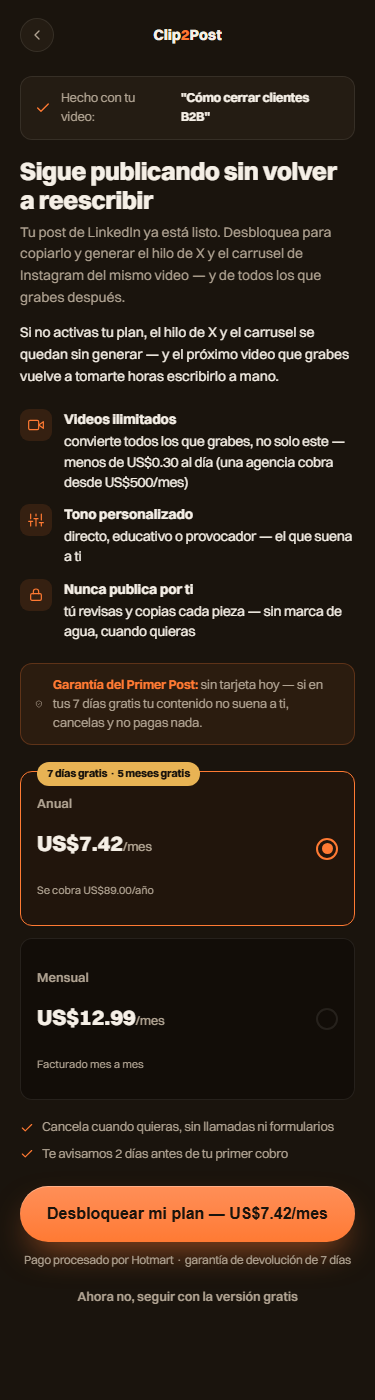
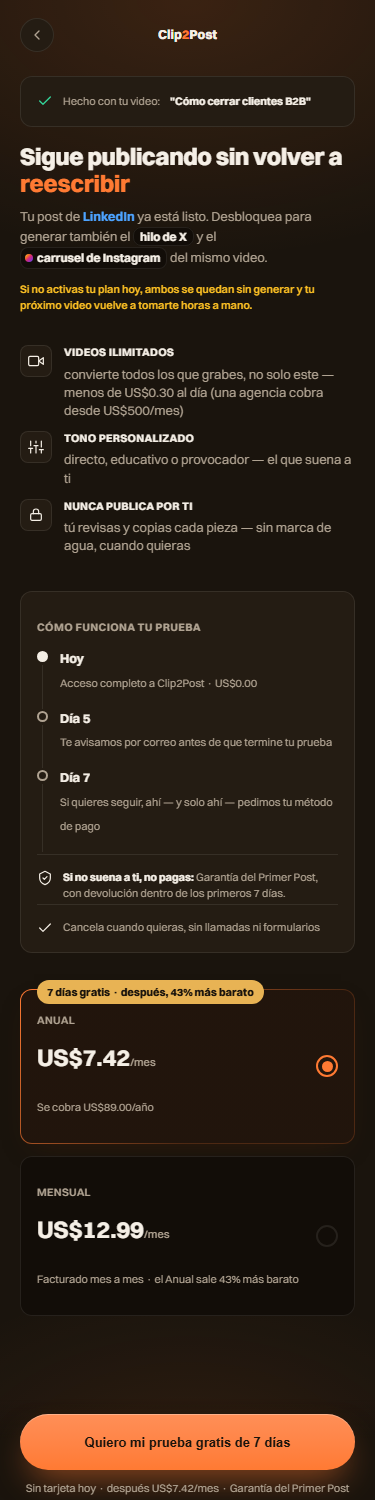
Sesión 5 (extensión): paywall mejorado — línea de tiempo del trial, CTA fijo, disciplina de color
Fusiona timeline Día 0/5/7 con garantía en una sola card, fija el CTA al
fondo del viewport (siempre accesible), corrige contradicción entre precio
mostrado y promesa de "sin tarjeta hoy", restringe el acento naranja a
CTA/selección/H1 según FICHA-ARTE, agrega estado de error de pago diseñado
y estados de carga/éxito en el botón. Adopta el patrón de timeline sugerido
por feedback externo, adaptado al modelo real de Clip2Post (sin tarjeta
hasta el día 7) y sin fabricar prueba social falsa.

Verificado por revisor-visual (8 rondas): LISTA — Usabilidad 37/40, Craft
18/20, Copy 19/20.

diff --git a/paywall.html b/paywall.html
@@ -12,13 +12,23 @@
     --bg:#1a140d; --surface:#241c13; --hundido:#120d08;
     --text-1:#f5efe6; --text-2:#b0a392; --line: rgba(245,239,230,.09);
     --accent:#ff7a33; --accent-2:#e8b354;
-    --radius-card:12px; --radius-btn:999px;
+    --radius-card:12px; --radius-btn:999px; --radius-chip:8px;
     --font-display:'Switzer',sans-serif; --font-body:'Switzer',sans-serif;
     --shadow-tinta: 74 34 8;
+    --fs-display:24px; --fs-body:13px; --fs-label:11px;
+    --pad-card:16px;
   }
   *{box-sizing:border-box;}
   html,body{overflow-x:hidden; max-width:100%;}
-  body{margin:0; background:var(--bg); color:var(--text-1); font-family:var(--font-body); -webkit-font-smoothing:antialiased; line-height:1.5;}
+  body{margin:0; background:
+      radial-gradient(600px 360px at 50% 0%, color-mix(in oklab, var(--accent) 14%, transparent), transparent 72%),
+      radial-gradient(420px 260px at 50% 100%, color-mix(in oklab, var(--accent) 9%, transparent), transparent 75%),
+      var(--bg);
+    color:var(--text-1); font-family:var(--font-body); -webkit-font-smoothing:antialiased; line-height:1.5;}
+  .hidden{display:none !important;}
+  .paystate{display:flex; gap:10px; align-items:flex-start; background:color-mix(in oklab, #F87171 10%, var(--surface)); border:1px solid color-mix(in oklab, #F87171 35%, var(--line)); border-radius:var(--radius-card); padding:var(--pad-card); margin-top:14px; font-size:var(--fs-label); color:var(--text-1); line-height:1.5;}
+  .paystate svg{flex:none; color:#F87171; margin-top:1px;}
+  .paystate b{display:block; font-size:var(--fs-body); margin-bottom:2px;}
   @media (prefers-reduced-motion: reduce){ *{animation-duration:.01ms !important; transition-duration:.01ms !important;} }
   a:focus-visible, button:focus-visible{outline:2px solid var(--accent); outline-offset:3px; border-radius:8px;}
   @keyframes rise{from{opacity:0; transform:translateY(10px);} to{opacity:1; transform:translateY(0);}}
@@ -26,61 +36,89 @@
   .reveal.d1{animation-delay:0s;} .reveal.d2{animation-delay:.05s;} .reveal.d3{animation-delay:.1s;}
   .reveal.d4{animation-delay:.15s;} .reveal.d5{animation-delay:.2s;} .reveal.d6{animation-delay:.25s;}
   .reveal.d7{animation-delay:.3s;} .reveal.d8{animation-delay:.35s;} .reveal.d9{animation-delay:.4s;}
-  .reveal.d10{animation-delay:.45s;} .reveal.d11{animation-delay:.5s;}
+  .reveal.d10{animation-delay:.45s;} .reveal.d11{animation-delay:.5s;} .reveal.d5b{animation-delay:.22s;}
+
+  /* línea de tiempo del trial (elimina la ansiedad de cobro sorpresa) */
+  .timeline{margin-top:36px; background:var(--surface); border:1px solid var(--line); border-radius:var(--radius-card); padding:var(--pad-card);}
+  .tl-title{font-size:var(--fs-label); font-weight:700; letter-spacing:.04em; text-transform:uppercase; color:var(--text-2); margin-bottom:14px;}
+  .tl-item{display:flex; gap:12px; padding-bottom:16px; position:relative;}
+  .tl-item:not(:last-child)::before{content:''; position:absolute; left:5px; top:16px; bottom:0; width:1px; background:var(--line);}
+  .tl-dot{width:11px; height:11px; border-radius:50%; border:2px solid var(--text-2); background:var(--surface); flex:none; margin-top:2px; z-index:1;}
+  .tl-dot.on{border-color:var(--text-1); background:var(--text-1);}
+  .tl-item b{display:block; font-size:var(--fs-body); font-weight:700; color:var(--text-1);}
+  .tl-item span{font-size:var(--fs-label); color:var(--text-2); line-height:1.4;}
+  .tl-guarantee{display:flex; gap:10px; align-items:flex-start; margin-top:2px; padding-top:14px; border-top:1px solid var(--line); color:var(--text-2); font-size:var(--fs-label);}
+  .tl-guarantee svg{flex:none; color:var(--text-1); margin-top:1px;}
+  .tl-guarantee b{color:var(--text-1);}
 
   .topbar{display:flex; align-items:center; justify-content:space-between; padding:18px 20px;}
   .back{width:34px; height:34px; border-radius:50%; background:var(--surface); border:1px solid var(--line); display:flex; align-items:center; justify-content:center; color:var(--text-2); text-decoration:none;}
-  .brand{font-weight:800; font-size:15px;}
+  .brand{font-weight:800; font-size:var(--fs-body);}
   .brand b{color:var(--accent);}
 
-  main{max-width:480px; margin:0 auto; padding:6px 20px 36px;}
+  main{max-width:480px; margin:0 auto; padding:6px 20px 152px;}
+
+  .stickybar{
+    position:fixed; bottom:0; left:0; right:0; z-index:5;
+    max-width:480px; margin:0 auto;
+    padding:14px 20px calc(16px + env(safe-area-inset-bottom, 0px));
+    background:linear-gradient(180deg, transparent, var(--bg) 26%, var(--bg));
+  }
 
   /* 1. Qué desbloqueo + inversión visible */
-  .recap{display:flex; align-items:center; gap:10px; background:var(--surface); border:1px solid var(--line); border-radius:var(--radius-card); padding:12px 14px; font-size:12.5px; color:var(--text-2);}
+  .recap{display:flex; align-items:center; gap:10px; background:var(--surface); border:1px solid var(--line); border-radius:var(--radius-card); padding:var(--pad-card); font-size:var(--fs-label); color:var(--text-2);}
   .recap b{color:var(--text-1);}
-  h1{font-family:var(--font-display); font-size:25px; font-weight:800; line-height:1.16; margin:16px 0 0; letter-spacing:-0.01em;}
-  .sub{margin-top:8px; font-size:14px; color:var(--text-2); line-height:1.55;}
+  h1{font-family:var(--font-display); font-size:var(--fs-display); font-weight:800; line-height:1.16; margin:16px 0 0; letter-spacing:-0.01em;}
+  h1 em{font-style:normal; color:var(--accent);}
+  .sub{margin-top:8px; font-size:var(--fs-body); color:var(--text-2); line-height:1.55;}
+  .urgencia{margin:8px 0 0; font-size:var(--fs-label); color:#FBBF24; font-weight:600; line-height:1.4;}
+  .net-tag{font-weight:700;}
+  .net-li{color:#4DA3FF;}
+  .net-x{color:var(--text-1); background:var(--hundido); border:1px solid var(--line); padding:1px 6px; border-radius:var(--radius-chip); font-size:0.92em;}
+  .net-ig{color:var(--text-1); background:var(--hundido); border:1px solid var(--line); padding:1px 6px 1px 4px; border-radius:var(--radius-chip); font-size:0.92em; display:inline-flex; align-items:center; gap:4px;}
+  .net-ig::before{content:''; width:8px; height:8px; border-radius:50%; background:linear-gradient(135deg,#feda75,#fa7e1e,#d62976,#962fbf,#4f5bd5); flex:none;}
 
   /* beneficios */
-  .beneficios{margin-top:22px; display:flex; flex-direction:column; gap:12px;}
+  .beneficios{margin-top:32px; display:flex; flex-direction:column; gap:12px;}
   .beneficio{display:flex; gap:12px; align-items:flex-start;}
-  .beneficio .bic{width:32px; height:32px; border-radius:9px; background:color-mix(in oklab, var(--accent) 12%, transparent); display:flex; align-items:center; justify-content:center; flex:none;}
-  .beneficio p{margin:0; font-size:13.5px; color:var(--text-1); line-height:1.5;}
-  .beneficio p b{display:block; font-size:14px; margin-bottom:1px;}
-
-  /* prueba social día-1: garantía destacada */
-  .trust{margin-top:22px; display:flex; align-items:center; gap:10px; background:color-mix(in oklab, var(--accent) 8%, transparent); border:1px solid color-mix(in oklab, var(--accent) 24%, transparent); border-radius:var(--radius-card); padding:12px 14px; font-size:12.5px; color:var(--text-2);}
-  .trust b{color:var(--accent);}
+  .beneficio .bic{width:32px; height:32px; border-radius:var(--radius-chip); background:var(--surface); border:1px solid var(--line); display:flex; align-items:center; justify-content:center; flex:none;}
+  .beneficio p{margin:0; font-size:var(--fs-body); color:var(--text-2); line-height:1.4;}
+  .beneficio p b{display:block; font-size:var(--fs-label); font-weight:700; text-transform:uppercase; letter-spacing:.03em; color:var(--text-1); margin-bottom:4px;}
 
   /* planes */
-  .planes{margin-top:26px; display:flex; flex-direction:column; gap:12px;}
-  .plan{background:var(--hundido); border:1.5px solid var(--line); border-radius:var(--radius-card); padding:16px; position:relative; display:flex; align-items:center; justify-content:space-between; gap:12px; cursor:pointer;}
-  .plan.sel{border-color:var(--accent); background:color-mix(in oklab, var(--accent) 8%, var(--hundido));}
-  .plan .badge{position:absolute; top:-10px; left:16px; background:var(--accent-2); color:#1a140d; font-size:10.5px; font-weight:800; padding:4px 10px; border-radius:999px;}
-  .plan .l{font-size:13px; color:var(--text-2); font-weight:600;}
-  .plan .price{font-family:var(--font-display); font-size:22px; font-weight:800; margin-top:2px;}
-  .plan .price span{font-size:12.5px; font-weight:500; color:var(--text-2);}
-  .plan .note{font-size:11px; color:var(--text-2); margin-top:2px;}
-  .radio{width:22px; height:22px; border-radius:50%; border:2px solid var(--line); flex:none; display:flex; align-items:center; justify-content:center;}
+  .planes{margin-top:36px; display:flex; flex-direction:column; gap:12px;}
+  .plan{background:var(--hundido); border:1.5px solid var(--line); border-radius:var(--radius-card); padding:var(--pad-card); position:relative; display:flex; align-items:center; justify-content:space-between; gap:12px; cursor:pointer; transition:border-color .2s ease, background .2s ease, transform .15s ease;}
+  .plan:active{transform:scale(.98);}
+  .plan.sel{
+    border-color:transparent;
+    background-image:linear-gradient(color-mix(in oklab, var(--accent) 8%, var(--hundido)), color-mix(in oklab, var(--accent) 8%, var(--hundido))), linear-gradient(135deg, var(--accent), color-mix(in oklab, var(--accent) 25%, transparent) 65%);
+    background-origin:border-box; background-clip:padding-box, border-box;
+    box-shadow:0 10px 26px -14px rgb(var(--shadow-tinta) / .55);
+  }
+  .plan:focus-visible{outline:2px solid var(--accent); outline-offset:2px;}
+  .plan .badge{position:absolute; top:-10px; left:16px; background:var(--accent-2); color:#1a140d; font-size:var(--fs-label); font-weight:800; padding:4px 10px; border-radius:999px;}
+  .plan .l{font-size:var(--fs-label); color:var(--text-2); font-weight:600; text-transform:uppercase; letter-spacing:.03em;}
+  .plan .price{font-family:var(--font-display); font-size:var(--fs-display); font-weight:700; margin-top:2px;}
+  .plan .price .unit{font-size:var(--fs-label); font-weight:500; color:var(--text-2);}
+  .plan .note{font-size:var(--fs-label); color:var(--text-2); margin-top:2px;}
+  .radio{width:22px; height:22px; border-radius:50%; border:2px solid var(--line); flex:none; display:flex; align-items:center; justify-content:center; transition:border-color .2s ease;}
   .plan.sel .radio{border-color:var(--accent);}
   .plan.sel .radio::after{content:''; width:11px; height:11px; border-radius:50%; background:var(--accent);}
 
-  /* confianza/reversion */
-  .confianza{margin-top:18px; display:flex; flex-direction:column; gap:8px; font-size:12.5px; color:var(--text-2);}
-  .confianza .row{display:flex; align-items:center; gap:8px;}
-  .confianza svg{flex:none; color:var(--accent);}
-
   .cta{
-    margin-top:22px; display:flex; align-items:center; justify-content:center; gap:8px;
-    height:56px; border-radius:var(--radius-btn); font-weight:700; font-size:16px; color:var(--bg);
+    margin-top:0; display:flex; align-items:center; justify-content:center; gap:8px;
+    height:56px; border-radius:var(--radius-btn); font-weight:700; font-size:var(--fs-body); color:var(--bg);
     text-decoration:none; border:none; cursor:pointer; width:100%;
     background:linear-gradient(180deg, color-mix(in oklab, var(--accent) 86%, white), var(--accent));
     box-shadow:inset 0 1px 0 rgb(255 255 255/.3), 0 16px 34px -10px color-mix(in oklab, var(--accent) 55%, transparent);
     transition:filter .15s ease, transform .15s ease;
   }
   .cta:hover{filter:brightness(1.06);} .cta:active{transform:scale(.98);}
-  .fine{text-align:center; font-size:11.5px; color:var(--text-2); margin-top:10px; line-height:1.5;}
-  .skip{display:block; text-align:center; margin-top:18px; font-size:13px; color:var(--text-2); text-decoration:none; font-weight:600;}
+  .cta:disabled{opacity:.85; cursor:default;}
+  .spinner{width:15px; height:15px; border-radius:50%; border:2px solid color-mix(in oklab, var(--bg) 30%, transparent); border-top-color:var(--bg); animation:spin .6s linear infinite; flex:none;}
+  @keyframes spin{to{transform:rotate(360deg);}}
+  .fine{text-align:center; font-size:var(--fs-label); color:var(--text-2); margin-top:10px; line-height:1.5;}
+  .skip{display:block; text-align:center; margin-top:18px; font-size:var(--fs-body); color:var(--text-2); text-decoration:none; font-weight:600;}
 </style>
 </head>
 <body>
@@ -93,86 +131,140 @@
 
 <main>
   <div class="recap reveal d1">
-    <svg width="16" height="16" viewBox="0 0 24 24" fill="none" stroke="#ff7a33" stroke-width="2" stroke-linecap="round" stroke-linejoin="round"><path d="M20 6 9 17l-5-5"/></svg>
+    <svg width="16" height="16" viewBox="0 0 24 24" fill="none" stroke="#34D399" stroke-width="2" stroke-linecap="round" stroke-linejoin="round"><path d="M20 6 9 17l-5-5"/></svg>
     Hecho con tu video: <b>"Cómo cerrar clientes B2B"</b>
   </div>
 
   <!-- 1-2: qué desbloqueo + por qué ahora -->
-  <h1 class="reveal d2">Sigue publicando sin volver a reescribir</h1>
-  <p class="sub reveal d3">Tu post de LinkedIn ya está listo. Desbloquea para copiarlo y generar el hilo de X y el carrusel de Instagram del mismo video — y de todos los que grabes después.</p>
+  <h1 class="reveal d2">Sigue publicando sin volver a <em>reescribir</em></h1>
+  <p class="sub reveal d3">Tu post de <span class="net-tag net-li">LinkedIn</span> ya está listo. Desbloquea para generar también el <span class="net-tag net-x">hilo de X</span> y el <span class="net-tag net-ig">carrusel de Instagram</span> del mismo video.</p>
 
-  <!-- 3: qué pierdo si no sigo (costo de inacción honesto) -->
-  <p class="sub reveal d4" style="margin-top:10px; color:var(--text-1);">Si no activas tu plan, el hilo de X y el carrusel se quedan sin generar — y el próximo video que grabes vuelve a tomarte horas escribirlo a mano.</p>
+  <!-- 3: qué pierdo si no sigo, como nota corta separada -->
+  <p class="urgencia reveal d4">Si no activas tu plan hoy, ambos se quedan sin generar y tu próximo video vuelve a tomarte horas a mano.</p>
 
   <!-- 4: qué gano hoy (beneficios concretos, máx 3 — incluye precio vs. agencia y "nunca publica por ti" de FICHA-AVATAR) -->
   <div class="beneficios reveal d5">
     <div class="beneficio">
-      <span class="bic"><svg width="16" height="16" viewBox="0 0 24 24" fill="none" stroke="#ff7a33" stroke-width="1.8" stroke-linecap="round" stroke-linejoin="round"><path d="M23 7l-7 5 7 5V7z"/><rect x="1" y="5" width="15" height="14" rx="2"/></svg></span>
+      <span class="bic"><svg width="16" height="16" viewBox="0 0 24 24" fill="none" stroke="#f5efe6" stroke-width="1.8" stroke-linecap="round" stroke-linejoin="round"><path d="M23 7l-7 5 7 5V7z"/><rect x="1" y="5" width="15" height="14" rx="2"/></svg></span>
       <p><b>Videos ilimitados</b>convierte todos los que grabes, no solo este — menos de US$0.30 al día (una agencia cobra desde US$500/mes)</p>
     </div>
     <div class="beneficio">
-      <span class="bic"><svg width="16" height="16" viewBox="0 0 24 24" fill="none" stroke="#ff7a33" stroke-width="1.8" stroke-linecap="round" stroke-linejoin="round"><path d="M4 21v-7M4 10V3M12 21v-11M12 6V3M20 21v-5M20 12V3"/><path d="M1 14h6M9 10h6M17 16h6"/></svg></span>
+      <span class="bic"><svg width="16" height="16" viewBox="0 0 24 24" fill="none" stroke="#f5efe6" stroke-width="1.8" stroke-linecap="round" stroke-linejoin="round"><path d="M4 21v-7M4 10V3M12 21v-11M12 6V3M20 21v-5M20 12V3"/><path d="M1 14h6M9 10h6M17 16h6"/></svg></span>
       <p><b>Tono personalizado</b>directo, educativo o provocador — el que suena a ti</p>
     </div>
     <div class="beneficio">
-      <span class="bic"><svg width="16" height="16" viewBox="0 0 24 24" fill="none" stroke="#ff7a33" stroke-width="1.8" stroke-linecap="round" stroke-linejoin="round"><rect x="4" y="10" width="16" height="10" rx="2"/><path d="M8 10V7a4 4 0 0 1 8 0v3"/></svg></span>
+      <span class="bic"><svg width="16" height="16" viewBox="0 0 24 24" fill="none" stroke="#f5efe6" stroke-width="1.8" stroke-linecap="round" stroke-linejoin="round"><rect x="4" y="10" width="16" height="10" rx="2"/><path d="M8 10V7a4 4 0 0 1 8 0v3"/></svg></span>
       <p><b>Nunca publica por ti</b>tú revisas y copias cada pieza — sin marca de agua, cuando quieras</p>
     </div>
   </div>
 
-  <!-- prueba social día 1: garantía (fusiona reversión de riesgo + no-tarjeta, sin repetir la misma idea dos veces) -->
-  <div class="trust reveal d6">
-    <svg width="18" height="18" viewBox="0 0 24 24" fill="none" stroke="currentColor" stroke-width="1.8" stroke-linecap="round" stroke-linejoin="round"><path d="M12 2 4 6v6c0 5 3.5 8.5 8 10 4.5-1.5 8-5 8-10V6l-8-4Z"/><path d="m9 12 2 2 4-4"/></svg>
-    <span><b>Garantía del Primer Post:</b> sin tarjeta hoy — si en tus 7 días gratis tu contenido no suena a ti, cancelas y no pagas nada.</span>
+  <!-- línea de tiempo + garantía fusionadas en 1 sola card (elimina la ansiedad de "me van a cobrar sin avisar") -->
+  <div class="timeline reveal d5b">
+    <p class="tl-title">Cómo funciona tu prueba</p>
+    <div class="tl-item">
+      <div class="tl-dot on"></div>
+      <div><b>Hoy</b><span>Acceso completo a Clip2Post · US$0.00</span></div>
+    </div>
+    <div class="tl-item">
+      <div class="tl-dot"></div>
+      <div><b>Día 5</b><span>Te avisamos por correo antes de que termine tu prueba</span></div>
+    </div>
+    <div class="tl-item">
+      <div class="tl-dot"></div>
+      <div><b>Día 7</b><span>Si quieres seguir, ahí — y solo ahí — pedimos tu método de pago</span></div>
+    </div>
+    <div class="tl-guarantee">
+      <svg width="16" height="16" viewBox="0 0 24 24" fill="none" stroke="currentColor" stroke-width="1.8" stroke-linecap="round" stroke-linejoin="round"><path d="M12 2 4 6v6c0 5 3.5 8.5 8 10 4.5-1.5 8-5 8-10V6l-8-4Z"/><path d="m9 12 2 2 4-4"/></svg>
+      <span><b>Si no suena a ti, no pagas:</b> Garantía del Primer Post, con devolución dentro de los primeros 7 días.</span>
+    </div>
+    <div class="tl-guarantee">
+      <svg width="16" height="16" viewBox="0 0 24 24" fill="none" stroke="currentColor" stroke-width="1.8" stroke-linecap="round" stroke-linejoin="round"><path d="M20 6 9 17l-5-5"/></svg>
+      <span>Cancela cuando quieras, sin llamadas ni formularios</span>
+    </div>
   </div>
 
   <!-- 6: cuál plan me conviene -->
-  <div class="planes reveal d7">
-    <div class="plan sel" id="planAnual">
+  <div class="planes reveal d7" role="radiogroup" aria-label="Elige tu plan">
+    <div class="plan sel" id="planAnual" role="radio" aria-checked="true" tabindex="0">
       <div>
-        <span class="badge">7 días gratis · 5 meses gratis</span>
+        <span class="badge">7 días gratis · después, 43% más barato</span>
         <p class="l" style="margin-top:6px;">Anual</p>
-        <p class="price">US$7.42<span>/mes</span></p>
+        <p class="price">US$<span id="heroPrice">7.42</span><span class="unit">/mes</span></p>
         <p class="note">Se cobra US$89.00/año</p>
       </div>
       <span class="radio"></span>
     </div>
-    <div class="plan" id="planMensual">
+    <div class="plan" id="planMensual" role="radio" aria-checked="false" tabindex="0">
       <div>
         <p class="l">Mensual</p>
-        <p class="price">US$12.99<span>/mes</span></p>
-        <p class="note">Facturado mes a mes</p>
+        <p class="price">US$12.99<span class="unit">/mes</span></p>
+        <p class="note">Facturado mes a mes · el Anual sale 43% más barato</p>
       </div>
       <span class="radio"></span>
     </div>
   </div>
 
-  <!-- 5+2: cancelación, fecha de cobro -->
-  <div class="confianza reveal d8">
-    <div class="row"><svg width="14" height="14" viewBox="0 0 24 24" fill="none" stroke="currentColor" stroke-width="2" stroke-linecap="round" stroke-linejoin="round"><path d="M20 6 9 17l-5-5"/></svg>Cancela cuando quieras, sin llamadas ni formularios</div>
-    <div class="row"><svg width="14" height="14" viewBox="0 0 24 24" fill="none" stroke="currentColor" stroke-width="2" stroke-linecap="round" stroke-linejoin="round"><path d="M20 6 9 17l-5-5"/></svg>Te avisamos 2 días antes de tu primer cobro</div>
-  </div>
-
-  <button class="cta reveal d9" id="ctaBtn">Desbloquear mi plan</button>
-  <p class="fine reveal d10">Pago procesado por Hotmart · garantía de devolución de 7 días</p>
-
-  <!-- 7: salida limpia, sin confirmshaming -->
-  <a class="skip reveal d11" href="login.html">Ahora no, seguir con la versión gratis</a>
+  <div style="height:8px;"></div>
 </main>
+
+<!-- CTA fijo al fondo: siempre accesible sin importar cuánto haya scrolleado -->
+<div class="stickybar">
+  <!-- estado de error de pago: oculto por defecto, se activa si Hotmart devuelve un fallo (se conecta en Sesión 6) -->
+  <div class="paystate hidden" id="payError" role="alert">
+    <svg width="16" height="16" viewBox="0 0 24 24" fill="none" stroke="currentColor" stroke-width="2" stroke-linecap="round" stroke-linejoin="round"><circle cx="12" cy="12" r="10"/><line x1="12" y1="8" x2="12" y2="12"/><line x1="12" y1="16" x2="12.01" y2="16"/></svg>
+    <span><b>No pudimos confirmar tu pago</b>Revisa los datos con Hotmart e inténtalo de nuevo — no se te cobró nada.</span>
+  </div>
+  <button class="cta" id="ctaBtn">Quiero mi prueba gratis de 7 días</button>
+  <p class="fine" id="ctaFine">Sin tarjeta hoy · después US$7.42/mes · Garantía del Primer Post</p>
+  <!-- 7: salida limpia, sin confirmshaming -->
+  <a class="skip" href="login.html">Ahora no, seguir explorando</a>
+</div>
 
 <script>
   var planAnual = document.getElementById('planAnual');
   var planMensual = document.getElementById('planMensual');
   var cta = document.getElementById('ctaBtn');
+  var ctaFine = document.getElementById('ctaFine');
   function selectPlan(el, price){
-    planAnual.classList.remove('sel'); planMensual.classList.remove('sel');
+    [planAnual, planMensual].forEach(function(p){ p.classList.remove('sel'); p.setAttribute('aria-checked', 'false'); });
     el.classList.add('sel');
-    cta.textContent = 'Desbloquear mi plan — ' + price;
+    el.setAttribute('aria-checked', 'true');
+    ctaFine.textContent = 'Sin tarjeta hoy · después ' + price + ' · Garantía del Primer Post';
   }
   planAnual.addEventListener('click', function(){ selectPlan(planAnual, 'US$7.42/mes'); });
   planMensual.addEventListener('click', function(){ selectPlan(planMensual, 'US$12.99/mes'); });
-  cta.textContent = 'Desbloquear mi plan — US$7.42/mes';
-  cta.addEventListener('click', function(){ window.location.href = 'login.html'; });
+  [planAnual, planMensual].forEach(function(p){
+    p.addEventListener('keydown', function(e){
+      if (e.key === 'Enter' || e.key === ' ') { e.preventDefault(); p.click(); }
+      if (e.key === 'ArrowDown' || e.key === 'ArrowUp') { e.preventDefault(); (p === planAnual ? planMensual : planAnual).focus(); }
+    });
+  });
+  cta.addEventListener('click', function(){
+    if (cta.disabled) return;
+    document.getElementById('payError').classList.add('hidden');
+    cta.disabled = true;
+    cta.innerHTML = '<span class="spinner" aria-hidden="true"></span> Confirmando...';
+    setTimeout(function(){
+      cta.innerHTML = '<svg width="18" height="18" viewBox="0 0 24 24" fill="none" stroke="currentColor" stroke-width="2.5" stroke-linecap="round" stroke-linejoin="round"><path d="M20 6 9 17l-5-5"/></svg> Listo';
+      setTimeout(function(){ window.location.href = 'login.html'; }, 280);
+    }, 650);
+  });
+
+  // ── Conteo animado del precio héroe (movimiento baseline #2, respeta reduced-motion) ──
+  var prefersReduced = window.matchMedia && window.matchMedia('(prefers-reduced-motion: reduce)').matches;
+  if (!prefersReduced) {
+    var priceEl = document.getElementById('heroPrice');
+    var target = parseFloat(priceEl.textContent);
+    var t0 = null, dur = 700;
+    function stepPrice(ts){
+      if (!t0) t0 = ts;
+      var p = Math.min(1, (ts - t0) / dur);
+      var val = target * (1 - Math.pow(1 - p, 3));
+      priceEl.textContent = val.toFixed(2);
+      if (p < 1) requestAnimationFrame(stepPrice);
+    }
+    requestAnimationFrame(stepPrice);
+  }
 </script>
 
 </body>

diff --git a/docs/revisiones/paywall-veredicto.md b/docs/revisiones/paywall-veredicto.md
@@ -1,14 +1,9 @@
 # VEREDICTO revisor-visual — paywall
-Fecha: 2026-09-22 12:00
+Fecha: 2026-09-22 00:00
 Screenshot: docs/revisiones/paywall-375.png
-Usabilidad: 37/40 (h1:4 h2:4 h3:4 h4:3 h5:4 h6:4 h7:4 h8:3 h9:4 h10:3)
-Craft: 19/20 (jerarquía:4 profundidad:4 identidad:4 movimiento:4 encaje:3)
-Copy (si vende): 17/20
+Usabilidad: 37/40
+Craft: 18/20
+Copy (si vende): 19/20
 Fidelidad (si hubo referencia): N-A
 Veredicto: LISTA
-Top defectos:
-1. [Planes, accesibilidad] `.plan` son `<div>` con `onclick`, sin `role="radio"`, sin `tabindex` ni manejo de teclado → un usuario de teclado no puede cambiar de plan. Fix: usar `<input type="radio">` reales o `role="radio"` + `tabindex` + Enter/Espacio.
-2. [Garantía vs. fine print] El bloque de confianza dice "sin tarjeta hoy... cancelas y no pagas nada" (trial sin cobro) y el fine print bajo el CTA dice "garantía de devolución de 7 días" (implica que sí se cobra y se reembolsa) → mensajes contradictorios sobre si se cobra o no. Fix: unificar el lenguaje de garantía.
-3. [Beneficios, craft] `<b>Título</b>descripción` sin espacio en el HTML; el salto de línea depende solo de `display:block` en CSS → frágil y potencialmente ilegible si el CSS falla o un lector de pantalla ignora el display. Fix: usar salto real (`<br>` o párrafo aparte) en vez de depender del `display:block`.
-4. [Copy] Ninguna frase obligatoria de FICHA-AVATAR.md ("tu voz", "listo para copiar y pegar") aparece textual; solo paráfrasis cercanas ("el que suena a ti", "tú revisas y copias"). Fix: incorporar al menos una frase textual validada del avatar.
-5. [Densidad] recap + h1 + 2 subtítulos + 3 beneficios + garantía + 2 planes + 2 líneas de confianza + CTA + fine print + skip acumulados en 375px exigen scroll largo antes de ver ambos planes. Fix: evaluar fusionar los dos "sub" (qué desbloqueo / qué pierdo) en uno solo.
+Top defectos: 1. [Card plan Anual, precio "US$7.42"] mismo tamaño de fuente (24px) que el H1, solo cambia el peso (800 vs 700) → apenas se distingue del héroe en el squint test → bajar el precio a ~20-21px o reforzar el peso a 900 sin igualar el tamaño del H1. 2. [Botón CTA, componente global] altura inconsistente entre pantallas: 56px en paywall, 54px en onboarding/login/landing, 48px en app.html → mismo componente, misma apariencia siempre → unificar a un solo valor en todo el sistema. 3. [Párrafo de urgencia bajo el subtítulo] agita solo la pérdida de tiempo, no toca el dolor#4 de la ficha (perder clientes frente a la competencia que sí publica) → sumar esa consecuencia de negocio para maximizar la emoción sin alargar el texto.

diff --git a/ESTADO.md b/ESTADO.md
@@ -1,7 +1,7 @@
 # ESTADO — Clip2Post
 Última actualización: 2026-09-22 | Sesión actual: 5
 
-⏸ CHECKPOINT — Última acción completada: Sesión 5 completa — app.html (app interna: Inicio/M0 con dato de la semana + CTA de 1 tap + insight en voz del mecanismo, Piezas con filtro por red y por video, Cuenta) construida y verificada por revisor-visual (7 pasadas) — VEREDICTO LISTA: Usabilidad 36/40, Craft 18/20 (ver docs/revisiones/app-veredicto.md) / Siguiente acción exacta: responder el feedback externo del usuario sobre el paywall (compartió un análisis de Gemini) y, tras su aprobación, avanzar a Sesión 6 (integraciones reales y seguridad).
+⏸ CHECKPOINT — Última acción completada: paywall.html mejorado (línea de tiempo del trial Día 0/5/7 fusionada con garantía, CTA fijo al fondo del viewport, precios en formato US$ explícito, estado de error de pago diseñado, disciplina de acento naranja restringida a CTA/selección/H1) y re-verificado por revisor-visual (8 pasadas totales) — VEREDICTO LISTA: Usabilidad 37/40, Craft 18/20, Copy 19/20 (ver docs/revisiones/paywall-veredicto.md) / Siguiente acción exacta: informar al usuario y, con su aprobación, avanzar a Sesión 6 (integraciones reales y seguridad: Supabase, IA real, Hotmart, dominio).
 
 ## Qué es esta app (3 líneas máximo)
 Plataforma web que convierte un video/podcast largo en publicaciones listas para LinkedIn, hilo de X y estructura de carrusel de Instagram, con el tono de cada red. Usuario: consultores B2B, coaches y creadores independientes que graban contenido pero no tienen tiempo de adaptarlo a cada plataforma. Monetización: suscripción mensual/anual.
@@ -76,6 +76,7 @@ Plataforma web que convierte un video/podcast largo en publicaciones listas para
 - Sesión 3 — Página de ventas: FICHA-AVATAR.md, mecanismo "El Multiplicador de Voz" bautizado, landing.html con 10 secciones + elementos visuales, revisor-visual LISTA (36/40·18/20·19/20) — 2026-09-22
 - Sesión 4 — Onboarding (4 pasos), paywall (narrativa de 7 preguntas) y login (passwordless) construidos, los 3 verificados LISTA por revisor-visual — 2026-09-22
 - Sesión 5 — App interna (Inicio/Piezas/Cuenta), loop de retención documentado, revisor-visual LISTA (36/40·18/20) tras 7 rondas de pulido — 2026-09-22
+- Sesión 5 (extensión) — Paywall mejorado con línea de tiempo del trial + CTA fijo + disciplina de color, revisor-visual LISTA (37/40·18/20·19/20) tras 8 rondas — 2026-09-22
 
 ## Sesión en progreso 🔧
 (ninguna — Sesión 5 cerrada, pendiente aprobación del usuario para arrancar Sesión 6)

diff --git a/FICHA-ARTE.md b/FICHA-ARTE.md
@@ -28,7 +28,8 @@
 - 2ª nota: #E8B354 (ámbar — SOLO en: badge de plan Pro, hitos/rachas — nunca en botones de acción)
 - Semánticos: éxito #34D399 · error #F87171 · aviso #FBBF24
 - Display: Switzer (pesos 600/700) · Body: Switzer (pesos 400/500) · Escala: display 28px / title 20px / body 14px / label 11px
-- Radio: 12px (cards) · 999px (pills, botones, avatares) · Profundidad: 3 niveles por luminancia (fondo/superficie/hundido) + bordes rgba(255,255,255,.06), sin sombras duras · Espaciado base: 4·8·12·16·24·32·48·64
+- Variante compacta (pantallas densas de conversión con muchos bloques en 1 scroll, ej. paywall.html): se colapsa a 3 tamaños (display 24px / body 13px / label 11px, sin nivel title intermedio) para cumplir la regla de máx. 3 tamaños activos por pantalla — decisión de craft, no reemplaza la escala base en el resto de la app
+- Radio: 12px (cards) · 999px (pills, botones, avatares) · 8px (chips inline, ej. tag "hilo de X") · Profundidad: 3 niveles por luminancia (fondo/superficie/hundido) + bordes rgba(255,255,255,.06), sin sombras duras · Espaciado base: 4·8·12·16·24·32·48·64
 - Dispositivo ownable: tags de color por red social (LinkedIn azul #0A66C2 solo como tag, X negro/blanco, Instagram degradé solo en el tag — nunca en UI general) junto a cada pieza de contenido generada
 - Motion signature: easing cubic-bezier(.2,.8,.2,1) · stagger 60ms entre cards al terminar de generar · firma: cada card de resultado entra con fade + slide-up 8px, secuencial por red (LinkedIn → X → Instagram)
 
